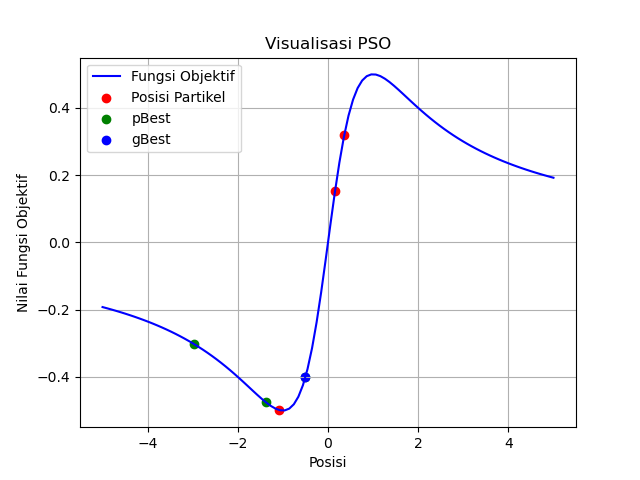
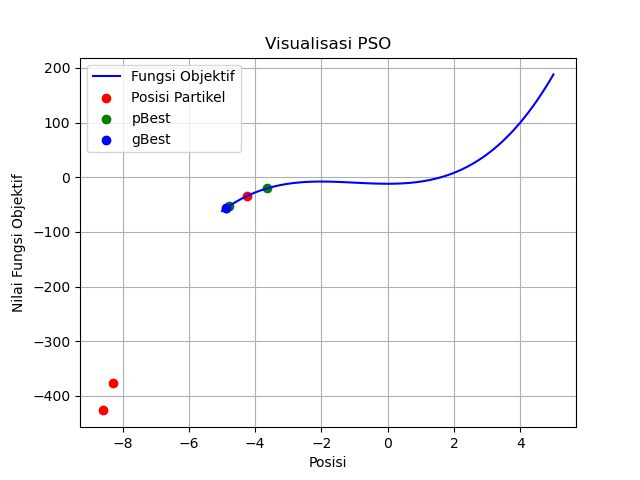
random values

diff --git a/PSO/fx-PSO.py b/PSO/fx-PSO.py
@@ -6,7 +6,7 @@ from typing import List
 
 
 def fitness_function(x):
-    return x / (x**2 + 1)
+    return x**3 + 3 * x**2 - 12
 
 
 class fx_PSO:
@@ -73,6 +73,7 @@ class fx_PSO:
             self.updateX()
             print(f"Update x = {self.particle}")
             print()
+        print(f"Minimum value of f(x) = {fitness_function(self.gBest)}")
 
     def plot(self):
         # Generate data for visualization
@@ -110,13 +111,13 @@ class fx_PSO:
         plt.show()
 
 
-particle = np.array([0.0, -3.0, -4.0])
-velocity = np.array([0.0, 0.0, 0.0])
+particle = np.random.uniform(-5, 5, 3)
+velocity = np.zeros(3)
 c = np.array([0.5, 1.0])
 r = np.array([0.5, 0.5])
 w = 1.0
 
 pso = fx_PSO(particle, velocity, c, r, w)
-pso.iterate(5)
+pso.iterate(3)
 # Visualisasi
 pso.plot()
